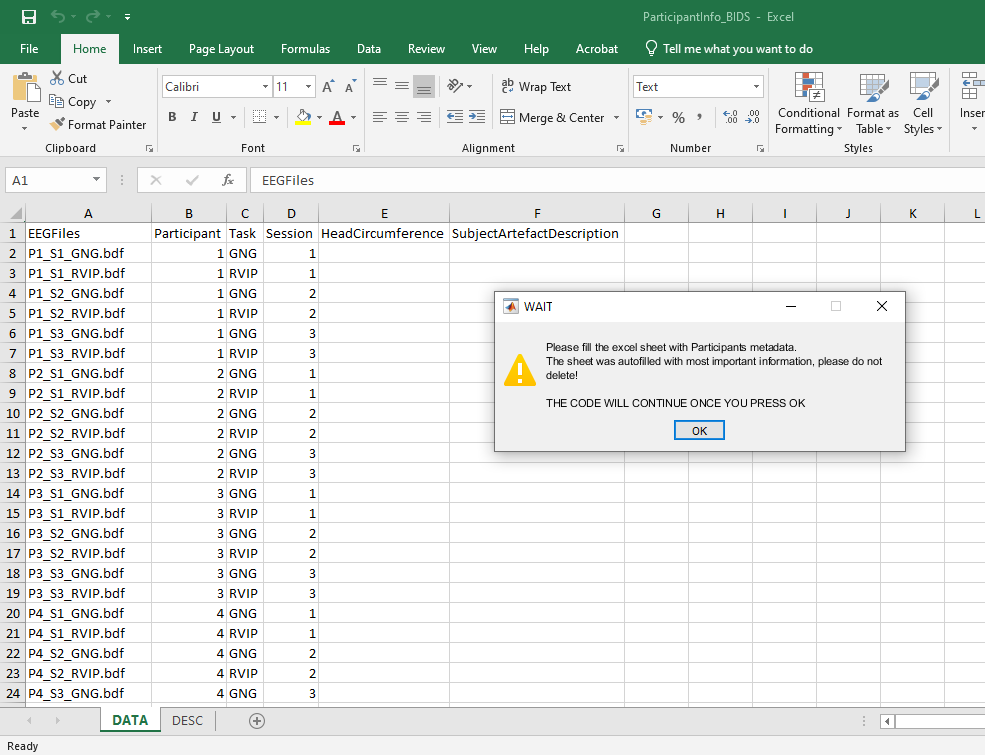
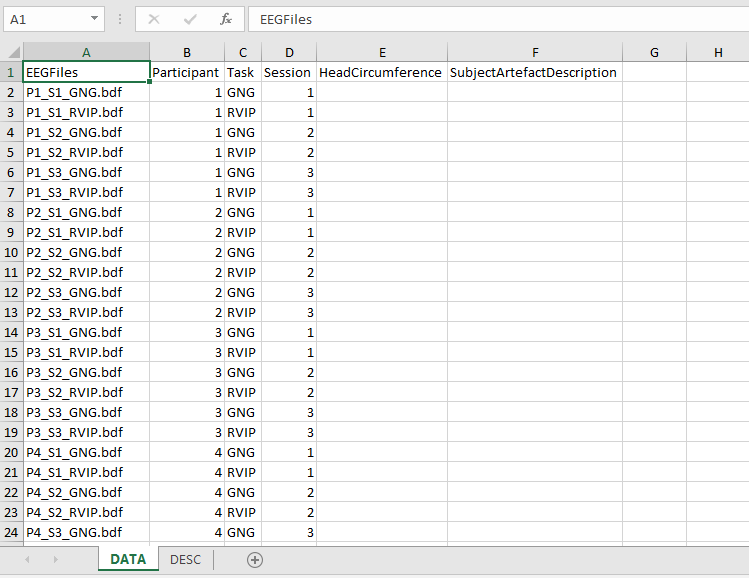
Minor adjustments for the wiki page

diff --git a/BIDS.m b/BIDS.m
@@ -182,9 +182,7 @@ if str2double(MetaData) == 1
         Excel.Visible = 1; 
 
         % Wait Bar 
-        Fig=msgbox(['Please fill the excel sheet with Participants metadata.',...
-            newline 'The sheet was autofilled with most important information, please do not delete!'... 
-            newline newline 'THE CODE WILL CONTINUE ONCE YOU PRESS OK'],'WAIT','warn'); 
+        Fig=msgbox('THE CODE WILL CONTINUE ONCE YOU PRESS OK','WAIT','warn'); 
         uiwait(Fig);
         close all
         Excel.ActiveWorkbook.Save; 
